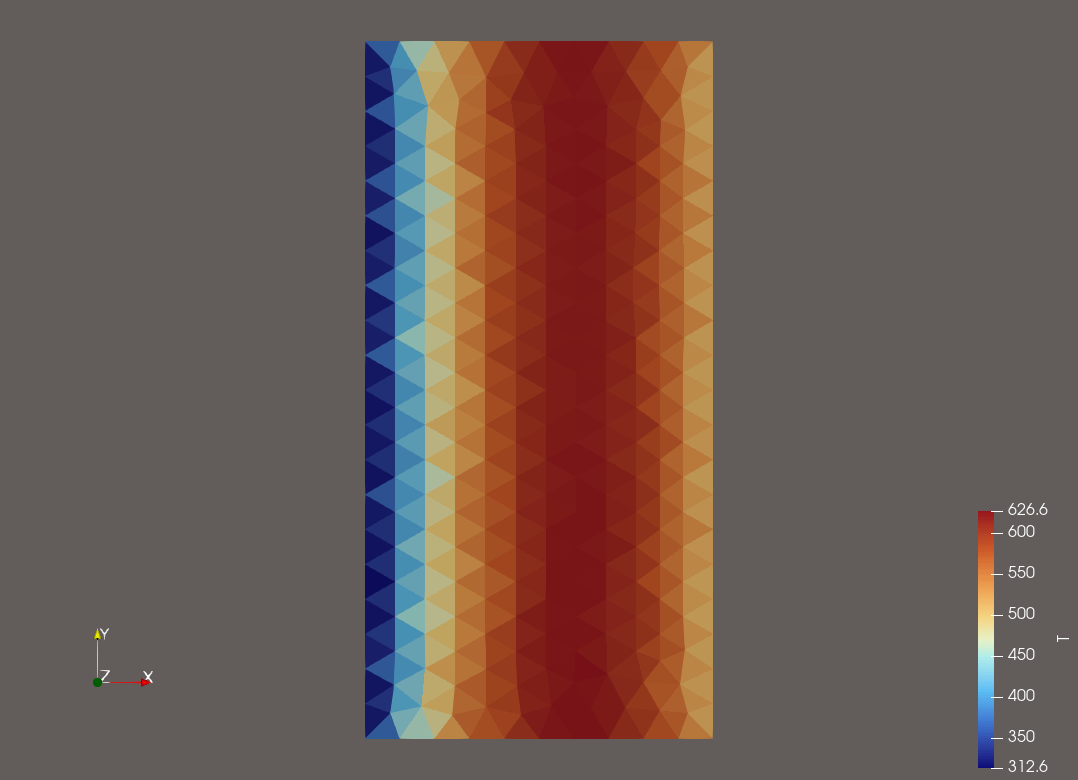
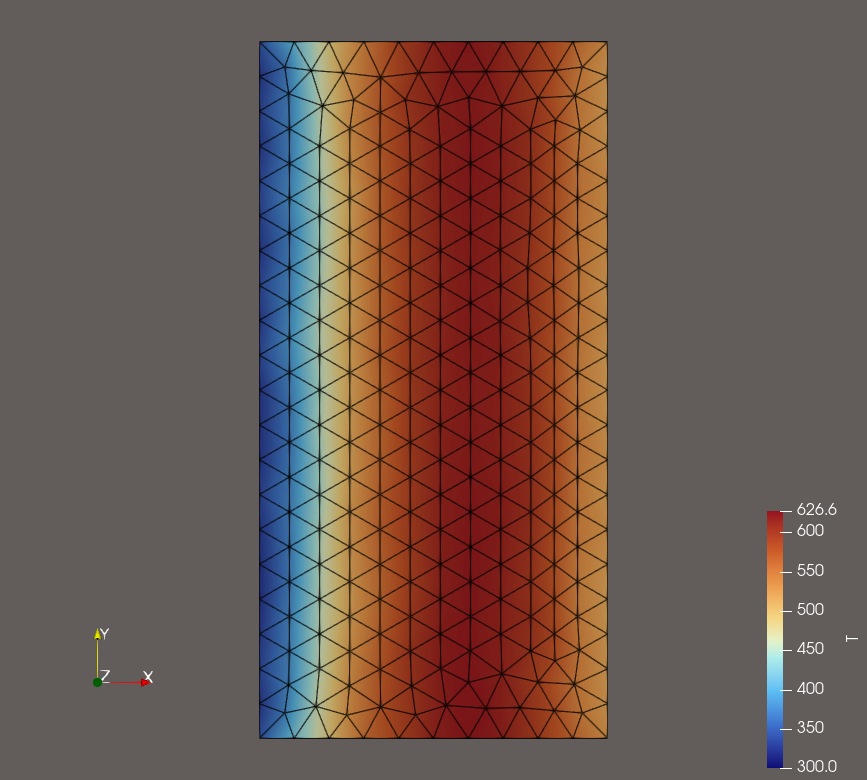
Updated example 1 to use Cedar v0.2

diff --git a/examples/01_box_heat_transfer/01_box_heat_transfer.py b/examples/01_box_heat_transfer/01_box_heat_transfer.py
@@ -1,9 +1,7 @@
-import os
-
 import cedar
 
 # Create Mesh for Heat Transfer Model
-mesh = cedar.Mesh3D("examples/01_box_thermal/box_heat_transfer.vtkhdf")
+mesh = cedar.Mesh3D("examples/01_box_heat_transfer/box_heat_transfer.vtkhdf")
 
 # Instantiate Model
 ht = cedar.HeatTransfer(mesh)
@@ -22,12 +20,10 @@ ht.bc = {
 }
 
 # Set Initial Conditions
-ht.T.ic = 500
+ht.T.ic = 400
 
 # Create Problem
 problem = cedar.Problem()
-problem.models.append(ht)
+problem.add_model(ht)
 
 problem.solve()
-
-os.system(f"cp output.vtkhdf /mnt/c/Users/jacob/Documents/output.vtkhdf")

diff --git a/docs/source/examples/01_box_heat_transfer.rst b/docs/source/examples/01_box_heat_transfer.rst
@@ -36,23 +36,6 @@ useful utility to accomplish this: ``cedar.functions.gmsh_to_vtkhdf()``
     # Create Mesh for Heat Transfer Model
     mesh = cedar.Mesh3D("examples/01_box_thermal/box_heat_transfer.vtkhdf")
 
-Create the Mesh
----------------
-
-Instantiating Problem
-------------------------
-
-The first step in any Cedar problem is to instantiate the ``Problem`` object with a
-problem name as a parameter. The ``Problem`` object holds all of the models and
-model connections. 
-
-.. code-block:: python
-
-    import cedar
-
-    # Instantiate Problem Object
-    problem = cedar.Problem("box_thermal")
-
 Instantiate the Heat Transfer Model
 -----------------------------------
 
@@ -74,94 +57,48 @@ conditions. In addition, the boundary conditions (which default to
 ``AdiabaticBC`` for every boundary) and the heat source (which defaults to no
 source) should be adjusted where necessary for your problem.
 
-For this example, we set the material to ``ZrC``, the initial condition to 400
-K, the heat source to 50 kW, and left boundary 
-
-
-
-
-Define Thermal Model Parameters
--------------------------------
-
-Since this problem uses a ``Thermal`` model, we must build a mesh and a material
-properties object that will be used by the ``Thermal`` model.
-
-The mesh object should be created using some 3rd-party meshing software. In this
-case, we used GMSH. Cedar currently only supports tetrahedron elements, but
-development to support other mesh elements is marked for future development.
-
-The material properties objects are pre-defined as part of Cedar's materials
-module. We must simply instantiate the specific material we're interested in as
-seen below. If custom material properties are required, the Cedar materials
-module should be extended to accomodate.
+For this example, we set the material to ``ZrC``, the heat source to 50 kW, the
+left boundary condition to 300 K, the right boundary condition to 500 K, and the
+initial condition to 400 K.
 
 .. code-block:: python
 
-    # Build Mesh for Thermal Model
-    mesh = cedar.Mesh3D("box_thermal.msh")
-
-    # Define Material Properties
-    ZrC = cedar.materials.ZrC()
-
-Instantiate the Thermal Model
------------------------------
-
-Now that we have all of the required parameters ready, we can instantiate the
-thermal model. Each Cedar ``Model`` has unique parameters, so refer to the
-documentation of each ``Model`` to correctly define it. In the case of the
-Thermal model, the only parameters required are a name, the 3D mesh, and a
-dictionary of material properties where the dictionary keys correspond to each
-mesh region.
-
-.. code-block:: python
-
-    # Instantiate Model
-    thermal = cedar.models.Thermal("thermal", mesh, {"volume" : ZrC})
-
-Set Source, BCs, and ICs
-------------------------
-
-The ``Thermal`` model is instantiated with no source term and Adiabatic boundary
-conditions. We use helpful methods that come with the ``Thermal`` model to define
-the heat source and boundary conditions, as shown below.
-
-.. code-block:: python
+    ht.materials = {
+        "volume" : cedar.materials.ZrC()
+    }
 
     # Set Heat Source
-    thermal.set_Qdot(5e4)
+    ht.source = cedar.HeatSource(5e4)
 
     # Set Boundary Conditions (Default is Adiabatic)
-    thermal.set_bc("left", "dirichlet", 300)
-    thermal.set_bc("right", "dirichlet", 500)
-
-Each Cedar variable (found in the Model.vars object) has three values associated
-with it:
-
-- ``Var.prev_val``: The previous value of ``Var.val``. This is used internally to check for variable convergence.
-- ``Var.val``: The current value of the variable.
-- ``Var.initial``: If ``Problem`` is steady state, this is the initial guess at the solution. If ``Problem`` is transient, this is the initial value at the start of the timestep.
-
-In this example problem, we set the initial guess at the steady state solution to 500 K.
-
-.. code-block:: python
+    ht.bc = {
+        "left" : cedar.FixedTemperatureBC(300),
+        "right" : cedar.FixedTemperatureBC(500)
+    }
 
     # Set Initial Conditions
-    thermal.vars.T.set_initial(500)
+    ht.T.ic = 400
 
-Add Model to Problem and Solve
-------------------------------
+Instantiating a Problem
+-----------------------
 
-Adding the ``Model`` to the ``Problem`` is how we instruct Cedar to solve the ``Model``.
+A ``Problem`` is a collection of models that are to be solved together. It is
+responsible for storing models, coupling data, and writing outputs. You can
+think of it as the conductor of the Cedar orchestra.
 
-.. note::
-    Since there is no coupling between two models in this example problem, no multiphysics iterations are necessary. The ``Problem`` will solve the decoupled ``Model`` to steady state.
-
-Finally, we call Problem.solve() which will solve the problem, and then generate an "outputs" folder in the same folder as the file you ran. The outputs folder will include .csv and .vtk files once the solve is complete.
+In this case, we instantiate the problem object, and add only 1 model to it (the
+heat transfer model).
 
 .. code-block:: python
 
-    # Add Problem to Model and Solve
-    problem.add_model(thermal)
+    # Create Problem
+    problem = cedar.Problem()
+    problem.add_model(ht)
+
+All that is left is to solve the problem. This will create an output file named ``output.vtkhdf``.
+
+.. code-block:: python
+
     problem.solve()
 
 Entire Example Problem File
@@ -171,30 +108,32 @@ Entire Example Problem File
 
     import cedar
 
-    # Instantiate Problem Object
-    problem = cedar.Problem("box_thermal")
-
-    # Build Mesh for Thermal Model
-    mesh = cedar.Mesh3D("box_thermal.msh")
-
-    # Define Material Properties
-    ZrC = cedar.materials.ZrC()
+    # Create Mesh for Heat Transfer Model
+    mesh = cedar.Mesh3D("examples/01_box_heat_transfer/box_heat_transfer.vtkhdf")
 
     # Instantiate Model
-    thermal = cedar.models.Thermal("thermal", mesh, {"volume" : ZrC})
+    ht = cedar.HeatTransfer(mesh)
+
+    ht.materials = {
+        "volume" : cedar.materials.ZrC()
+    }
 
     # Set Heat Source
-    thermal.set_Qdot(5e4)
+    ht.source = cedar.HeatSource(5e4)
 
     # Set Boundary Conditions (Default is Adiabatic)
-    thermal.set_bc("left", "dirichlet", 300)
-    thermal.set_bc("right", "dirichlet", 500)
+    ht.bc = {
+        "left" : cedar.FixedTemperatureBC(300),
+        "right" : cedar.FixedTemperatureBC(500)
+    }
 
     # Set Initial Conditions
-    thermal.vars.T.set_initial(500)
+    ht.T.ic = 400
 
-    # Add Problem to Model and Solve
-    problem.add_model(thermal)
+    # Create Problem
+    problem = cedar.Problem()
+    problem.add_model(ht)
+
     problem.solve()
 
 Outputs
@@ -210,4 +149,5 @@ created by the heat source.
 
    Temperature contour plot.
 
-In addition to temperature, many variables are saved to outputs including material properties, source values, and others.
+In addition to temperature, many variables are saved to outputs including
+material properties, source values, and others.
